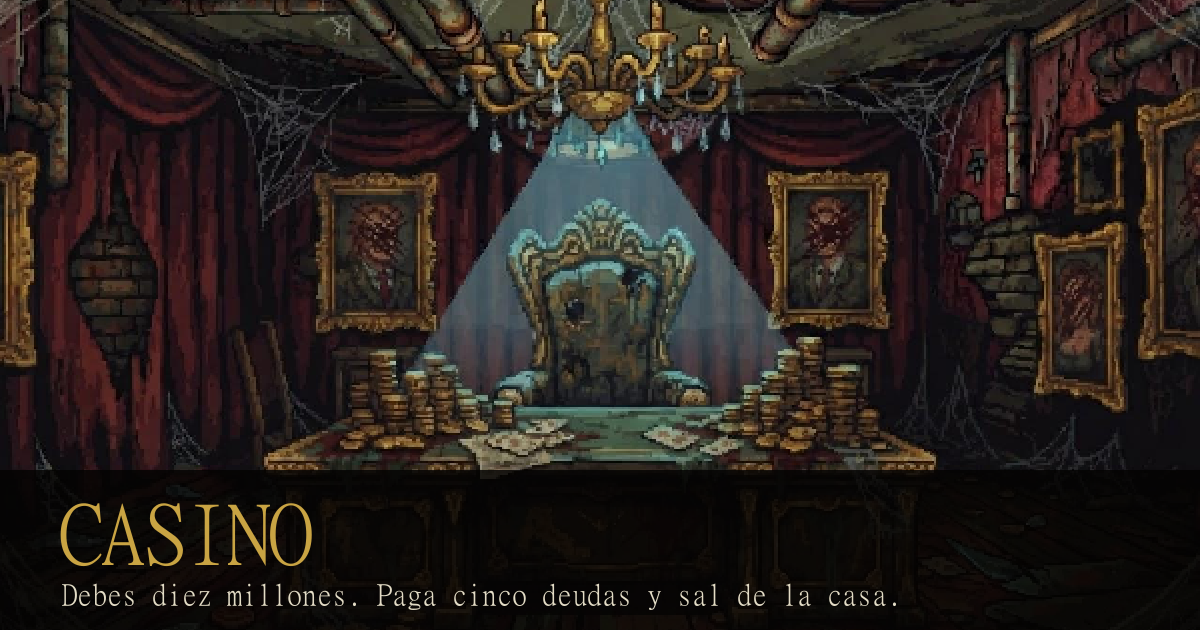
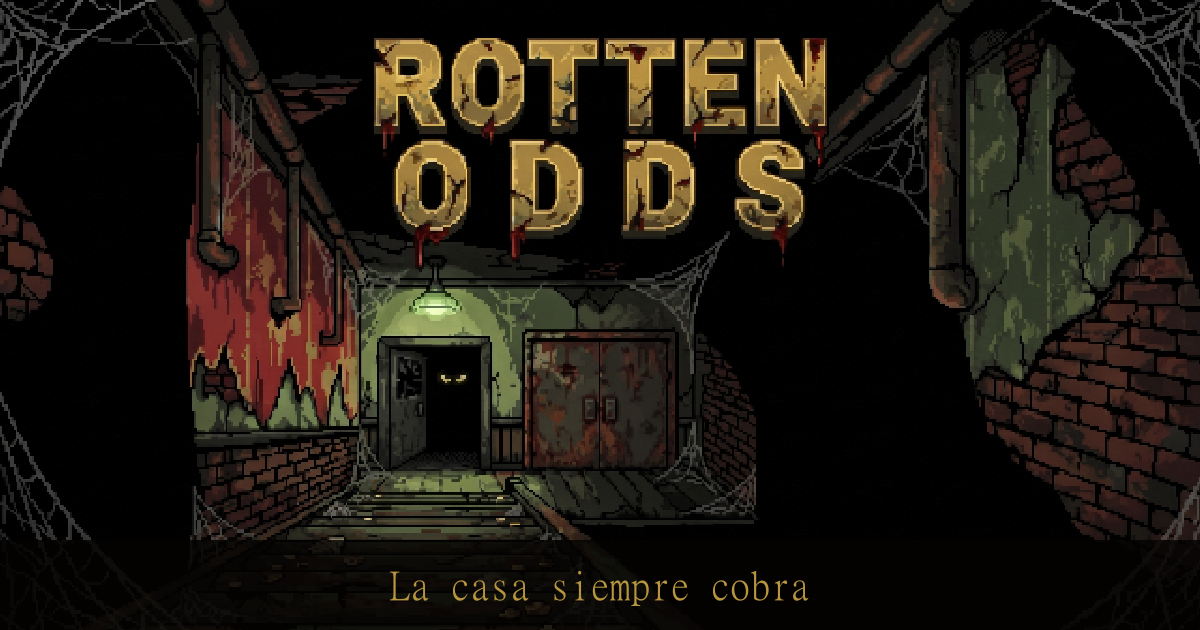
Título ROTTEN ODDS: constantes en config, index.html, README, DEPLOY, créditos e imagen para compartir; test sin el título provisional

diff --git a/tests/title.test.ts b/tests/title.test.ts
@@ -1,0 +1,42 @@
+import { readdirSync, readFileSync, statSync } from 'node:fs';
+import { join } from 'node:path';
+import { describe, expect, it } from 'vitest';
+import { GAME_TAGLINE, GAME_TITLE } from '../src/game/config';
+
+/** Todos los .ts de una carpeta, recursivo. */
+function tsFiles(dir: string): string[] {
+  return readdirSync(dir).flatMap((name) => {
+    const path = join(dir, name);
+    return statSync(path).isDirectory() ? tsFiles(path) : path.endsWith('.ts') ? [path] : [];
+  });
+}
+
+const read = (path: string) => readFileSync(path, 'utf8');
+
+describe('nombre del juego', () => {
+  it('es ROTTEN ODDS, con su subtítulo', () => {
+    expect(GAME_TITLE).toBe('ROTTEN ODDS');
+    expect(GAME_TAGLINE).toBe('La casa siempre cobra');
+  });
+
+  it('la página, el README y DEPLOY.md usan el título; index.html lo toma de config', () => {
+    const html = read('index.html');
+    expect(html).toContain('<title>%GAME_TITLE% · %GAME_TAGLINE%</title>');
+    expect(html).toContain('og:title" content="%GAME_TITLE%"');
+    expect(read('README.md').split(/\r?\n/)[0]).toBe(`# ${GAME_TITLE}`);
+    expect(read('DEPLOY.md')).toContain(GAME_TITLE);
+  });
+
+  it('no queda ninguna aparición del título provisional "CASINO"', () => {
+    const files = ['index.html', 'README.md', 'DEPLOY.md', 'server/src/main/java/dev/casino/config/OpenApiConfig.java', ...tsFiles('src'), ...tsFiles('scripts')];
+    // El título provisional: CASINO en mayúsculas, o "Casino" como título (en una etiqueta, un
+    // atributo, un encabezado o un texto entre comillas). La palabra "casino" del juego (la sala) y los
+    // identificadores (returnCasino, CasinoTarget) no cuentan.
+    const provisional = [/\bCASINO\b/, /<title>\s*Casino/, /content="Casino/, /<h1>\s*Casino/, /^#\s*Casino/m, /['"`]Casino\b/, /\.title\("Casino/];
+    const offenders = files.flatMap((file) => {
+      const text = read(file);
+      return provisional.filter((re) => re.test(text)).map((re) => `${file}: ${re}`);
+    });
+    expect(offenders).toEqual([]);
+  });
+});

diff --git a/scripts/meta.ts b/scripts/meta.ts
@@ -3,18 +3,19 @@
  * compartir a partir de una escena (vecino más próximo, sin suavizar). Salen en public/.
  */
 import sharp from 'sharp';
+import { GAME_TAGLINE } from '../src/game/config';
 
 await sharp('assets/sprites/chips/chip-4.png')
   .resize(32, 32, { kernel: 'nearest', fit: 'contain', background: { r: 0, g: 0, b: 0, alpha: 0 } })
   .png({ compressionLevel: 9 })
   .toFile('public/favicon.png');
 
-// 1200x630: la mesa 5 a escala 2 (1280x720) recortada al centro, con una franja oscura y el título.
-const scene = await sharp('assets/sprites/backgrounds/mesa5.png').resize(1280, 720, { kernel: 'nearest' }).extract({ left: 40, top: 45, width: 1200, height: 630 }).toBuffer();
+// 1200x630: la portada (que ya trae el título dibujado) a 1200 de ancho, recortada por abajo, con
+// el subtítulo en una franja oscura.
+const scene = await sharp('assets/sprites/screens/titulo.png').resize(1200, 675, { kernel: 'nearest' }).extract({ left: 0, top: 0, width: 1200, height: 630 }).toBuffer();
 const title = Buffer.from(`<svg width="1200" height="630" xmlns="http://www.w3.org/2000/svg">
-  <rect x="0" y="470" width="1200" height="160" fill="#050403" fill-opacity="0.82"/>
-  <text x="60" y="560" font-family="monospace" font-size="84" fill="#c9a443">CASINO</text>
-  <text x="62" y="604" font-family="monospace" font-size="30" fill="#e3dcc6">Debes diez millones. Paga cinco deudas y sal de la casa.</text>
+  <rect x="0" y="540" width="1200" height="90" fill="#050403" fill-opacity="0.82"/>
+  <text x="600" y="598" text-anchor="middle" font-family="monospace" font-size="40" fill="#b8963f">${GAME_TAGLINE}</text>
 </svg>`);
 await sharp(scene).composite([{ input: title }]).png({ compressionLevel: 9 }).toFile('public/og.png');
 console.log('public/favicon.png y public/og.png');

diff --git a/index.html b/index.html
@@ -3,13 +3,14 @@
   <head>
     <meta charset="UTF-8" />
     <meta name="viewport" content="width=device-width, initial-scale=1.0" />
-    <title>Casino · un incremental de terror</title>
-    <meta name="description" content="Debes diez millones. Un incremental de terror en pixel art: cinco mesas, cinco prestamistas y una casa que nunca pierde." />
+    <title>%GAME_TITLE% · %GAME_TAGLINE%</title>
+    <meta name="description" content="%GAME_TITLE%: %GAME_TAGLINE%. Debes diez millones. Un incremental de terror en pixel art: cinco mesas, cinco prestamistas y una casa que nunca pierde." />
     <meta name="theme-color" content="#050403" />
     <link rel="icon" type="image/png" href="./favicon.png" />
     <meta property="og:type" content="website" />
-    <meta property="og:title" content="Casino" />
-    <meta property="og:description" content="Debes diez millones. Paga cinco deudas y sal de la casa." />
+    <meta property="og:title" content="%GAME_TITLE%" />
+    <meta name="application-name" content="%GAME_TITLE%" />
+    <meta property="og:description" content="%GAME_TAGLINE%. Debes diez millones: paga cinco deudas y sal de la casa." />
     <meta property="og:image" content="./og.png" />
     <meta name="twitter:card" content="summary_large_image" />
     <style>

diff --git a/src/game/config.ts b/src/game/config.ts
@@ -1,4 +1,16 @@
-import shared from '../../shared/config.json';
+import shared from '../../shared/config.json' with { type: 'json' };
+import pkg from '../../package.json' with { type: 'json' };
+
+/** Nombre del juego: título de la página, metadatos, menú, créditos y textos para compartir. */
+export const GAME_TITLE = 'ROTTEN ODDS';
+/** Subtítulo, bajo el título de la portada. */
+export const GAME_TAGLINE = 'La casa siempre cobra';
+/** Versión que se ve en el menú (la del paquete). */
+export const GAME_VERSION: string = pkg.version;
+/** Autor (créditos). */
+export const GAME_AUTHOR = 'José María Merchán Martos';
+/** Enlace al repositorio en los créditos; null = no se muestra (el repositorio es privado). */
+export const REPO_URL: string | null = null;
 
 /**
  * Todos los números del diseño en un solo sitio.

diff --git a/vite.config.ts b/vite.config.ts
@@ -1,5 +1,15 @@
-import { defineConfig } from 'vite';
+import { defineConfig, type Plugin } from 'vite';
+import { GAME_TAGLINE, GAME_TITLE } from './src/game/config.ts';
+
+/** El título y el subtítulo de index.html salen de las constantes de config (%GAME_TITLE%, %GAME_TAGLINE%). */
+function gameTitle(): Plugin {
+  return {
+    name: 'game-title',
+    transformIndexHtml: (html) => html.replaceAll('%GAME_TITLE%', GAME_TITLE).replaceAll('%GAME_TAGLINE%', GAME_TAGLINE),
+  };
+}
 
 export default defineConfig({
   base: './',
+  plugins: [gameTitle()],
 });

diff --git a/src/ui/scene.ts b/src/ui/scene.ts
@@ -37,7 +37,7 @@ const BIG_LOSS_FRACTION = 0.25;
  */
 export const DOORS: Record<Room, { x: number; y: number; width: number; height: number; label: string }> = {
   casino: { x: 30, y: 88, width: 62, height: 168, label: 'TRASTIENDA' },
-  trastienda: { x: 44, y: 28, width: 88, height: 222, label: 'CASINO' },
+  trastienda: { x: 44, y: 28, width: 88, height: 222, label: 'SALA' },
 };
 
 /** Lo que hay bajo el ratón en el casino (para el tooltip y el clic). */

diff --git a/server/src/main/java/dev/casino/config/OpenApiConfig.java b/server/src/main/java/dev/casino/config/OpenApiConfig.java
@@ -17,7 +17,7 @@ public class OpenApiConfig {
     OpenAPI casinoOpenApi() {
         return new OpenAPI()
                 .info(new Info()
-                        .title("Casino incremental · API")
+                        .title("ROTTEN ODDS · API")
                         .version("0.1.0")
                         .description("Cuentas, guardado en la nube con control de conflictos, ranking de la mesa 1 "
                                 + "y validación de plausibilidad. El juego funciona sin este servidor."))

diff --git a/README.md b/README.md
@@ -1,4 +1,6 @@
-# Casino incremental
+# ROTTEN ODDS
+
+*La casa siempre cobra.*
 
 Juego incremental de terror en el navegador: un trabajador del casino debe 10.000.000 de fichas y
 tiene que saldarlas apostando en una ruleta amañada por la suerte. Frontend en TypeScript que
@@ -270,3 +272,11 @@ sistema antitrampas:
 - No hay despliegue: el `Dockerfile` y el `docker-compose.yml` son para desarrollo local.
 - Las mesas 2 a 4 no tienen validación estadística: dentro de los niveles y la estructura válidos, el
   servidor acepta cualquier saldo.
+
+## Créditos
+
+**ROTTEN ODDS** · diseño, programación y textos: José María Merchán Martos. Arte: pixel art generado con
+IA y procesado para el juego (`npm run assets`). Sonido sintetizado en el navegador. Fuente VT323
+© 2011 The VT323 Project Authors (Peter Hull), con licencia SIL Open Font License 1.1
+(`public/licencias/VT323-OFL.txt`). El título y el subtítulo viven en `src/game/config.ts`
+(`GAME_TITLE`, `GAME_TAGLINE`); el nombre del repositorio y del paquete no cambian.

diff --git a/DEPLOY.md b/DEPLOY.md
@@ -1,8 +1,11 @@
-# Despliegue (Cloudflare Workers con assets estáticos)
+# Despliegue de ROTTEN ODDS (Cloudflare Workers con assets estáticos)
 
 El juego es una web estática: `npm run build` deja todo en `dist/` y funciona entero sin servidor (sin
 `VITE_API_URL` se ocultan *Iniciar sesión*, *Sincronizar* y *Ranking*). Cloudflare la sirve como un
-Worker **solo de assets** (sin código de servidor), configurado en `wrangler.jsonc`.
+Worker **solo de assets** (sin código de servidor), configurado en `wrangler.jsonc`. El nombre del juego
+(«ROTTEN ODDS · La casa siempre cobra») sale de `GAME_TITLE` y `GAME_TAGLINE` en `src/game/config.ts`: el
+build lo escribe en el `<title>` y los metadatos de `index.html`. El Worker y el repositorio conservan su
+nombre técnico (`casino-incremental`).
 
 **Nada de esto se ha ejecutado.** Son los pasos exactos para cuando se quiera publicar.
 
